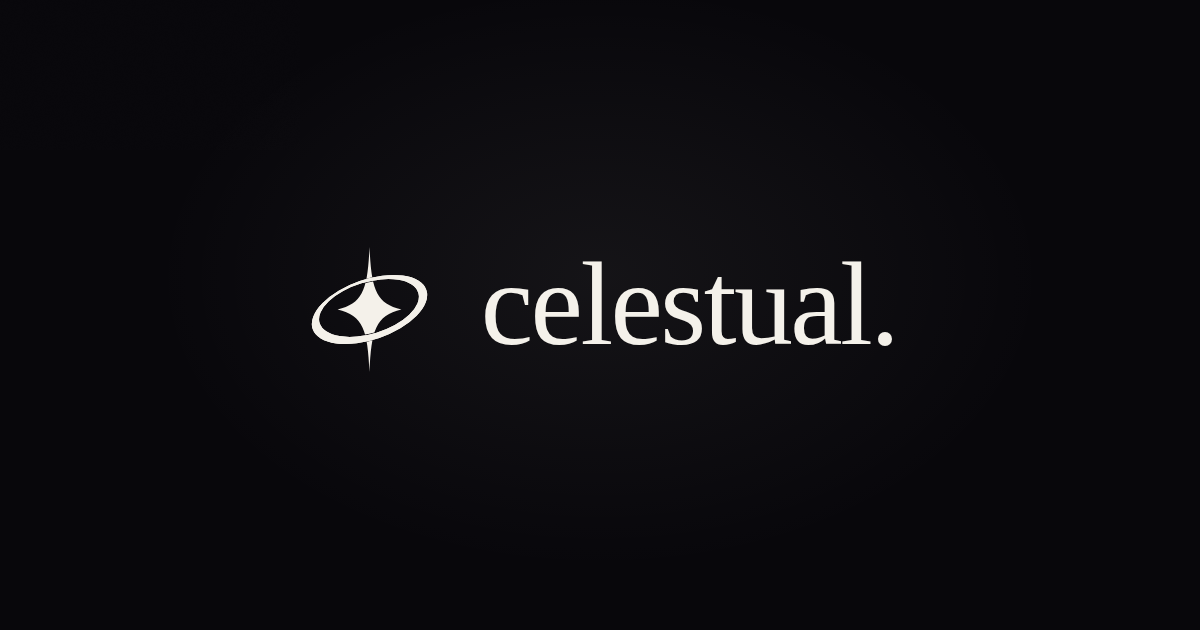
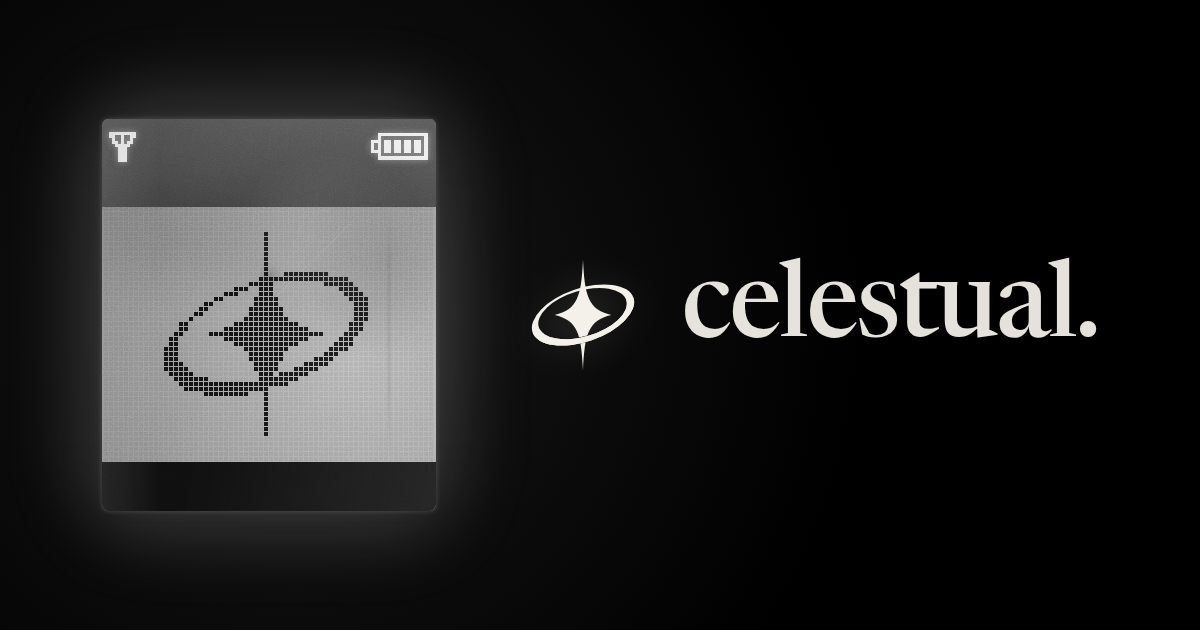
The link unfurls into the black room: the intro's night screen and the lockup
og.png predated the phone. scripts/export-og.mjs now serves the repository
for the length of the shot and photographs a page that links the real
screen.css and story.css and imports looks.js, pixmark.js and mark.js: the
night skin and the intro's phone held square, the pixel mark in the panel's
own dots as PixelStory draws it, the screen's light on the room, and the
lockup in chalk beside it, 1200 by 630 and still legible at 150 wide. It
exports its renderer for the mail's header.

index.html gets an absolute og:image and twitter:image, og:url, the image's
type and alt, a plain description ("anonymous letters to the people on your
mind. find out if it's mutual.") in place of the ping era's, and the black
room's #000 for theme-color and the first paint.

Claude-Session: https://claude.ai/code/session_01E8RhJQMVfnJUxP4E7X7emM

Changed region(s): [[0.0617, 0.1206, 0.925, 0.8746]]

diff --git a/app/index.html b/app/index.html
@@ -4,38 +4,41 @@
     <meta charset="UTF-8" />
     <meta name="facebook-domain-verification" content="6554rcyw9tzomsomxav3xy88iysvu2" />
     <meta name="viewport" content="width=device-width, initial-scale=1.0, viewport-fit=cover" />
-    <!-- The void (wall.css --void). One value, so the browser chrome, the page
-         and the field behind it are all the same surface. -->
-    <meta name="theme-color" content="#08070B" />
-    <!-- The same void, inline, so the very first paint of a cold load is the
-         ground and never the browser's default or a colour from a stylesheet
+    <!-- The black room (DESIGN.md 2.5): every address is the wall now, and
+         the wall is #000. One value, so the browser chrome, the page and the
+         room behind it are all the same surface. -->
+    <meta name="theme-color" content="#000000" />
+    <!-- The same black, inline, so the very first paint of a cold load is the
+         room and never the browser's default or a colour from a stylesheet
          that has not arrived yet. -->
-    <style>html { background: #08070B; }</style>
+    <style>html { background: #000; }</style>
 
     <title>celestual</title>
-    <meta
-      name="description"
-      content="place a ping on somebody. if they place one back, you are both told at once. if they do not, nobody is, and nobody ever knows there was anything to know."
-    />
+    <meta name="description" content="anonymous letters to the people on your mind. find out if it's mutual." />
 
-    <!-- Open Graph and the share preview. The image is a raster PNG at 1200x630
-         because no scraper renders SVG, and a blank card silently kills the
-         product's main growth surface, which is a link somebody sends to one
-         other person. It is generated by scripts/export-og.mjs from the same
-         mark, palette and faces as the page it links to, so the two cannot
-         disagree. -->
+    <!-- Open Graph and the share preview: what a link to celestual.us unfurls
+         into, which is how most people first see it. The image is a raster PNG
+         at 1200x630 because no scraper renders SVG, and it is the product as
+         it is: the black room, the intro's night screen with the pixel mark on
+         it, and the lockup. It is generated by scripts/export-og.mjs from the
+         screen's own stylesheet, the mark and the faces, so the card and the
+         page cannot disagree. Its address is absolute, since a scraper does not
+         always resolve a relative one against the page. -->
     <meta property="og:type" content="website" />
     <meta property="og:site_name" content="celestual" />
+    <meta property="og:url" content="https://celestual.us/" />
     <meta property="og:title" content="celestual" />
-    <meta property="og:description" content="you both find out, or neither of you does." />
-    <meta property="og:image" content="/og.png" />
+    <meta property="og:description" content="anonymous letters to the people on your mind. find out if it's mutual." />
+    <meta property="og:image" content="https://celestual.us/og.png" />
+    <meta property="og:image:type" content="image/png" />
     <meta property="og:image:width" content="1200" />
     <meta property="og:image:height" content="630" />
-    <meta property="og:image:alt" content="you both find out, or neither of you does." />
+    <meta property="og:image:alt" content="a phone screen lit in a dark room with the celestual mark on it, beside the word celestual." />
     <meta name="twitter:card" content="summary_large_image" />
     <meta name="twitter:title" content="celestual" />
-    <meta name="twitter:description" content="you both find out, or neither of you does." />
-    <meta name="twitter:image" content="/og.png" />
+    <meta name="twitter:description" content="anonymous letters to the people on your mind. find out if it's mutual." />
+    <meta name="twitter:image" content="https://celestual.us/og.png" />
+    <meta name="twitter:image:alt" content="a phone screen lit in a dark room with the celestual mark on it, beside the word celestual." />
 
     <!-- The mark, static, so the tab is right on the first paint of every
          address rather than after the wall's chunk has loaded and injected it.
